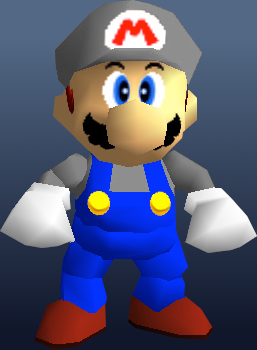
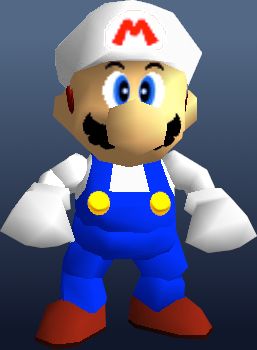
note to self: check ALL paths before release

diff --git a/index.html b/index.html
@@ -30,7 +30,7 @@
             <div class="content large">
                 <div class="blob mariobox noscale">
                     <h2 class="blob-header">Hat & Shirt</h2>
-                    <img class="mario" id="cap" src="img/cap2.png" style="background-color: #ff0000">
+                    <img class="mario" id="cap" src="img/cap.png" style="background-color: #ff0000">
                     <span>Base Colour:</span>
                     <input class="button" type="color" id="capBase" onchange="updateCap()" value="#ff0000">
                     <span>Shadow Colour:</span>
